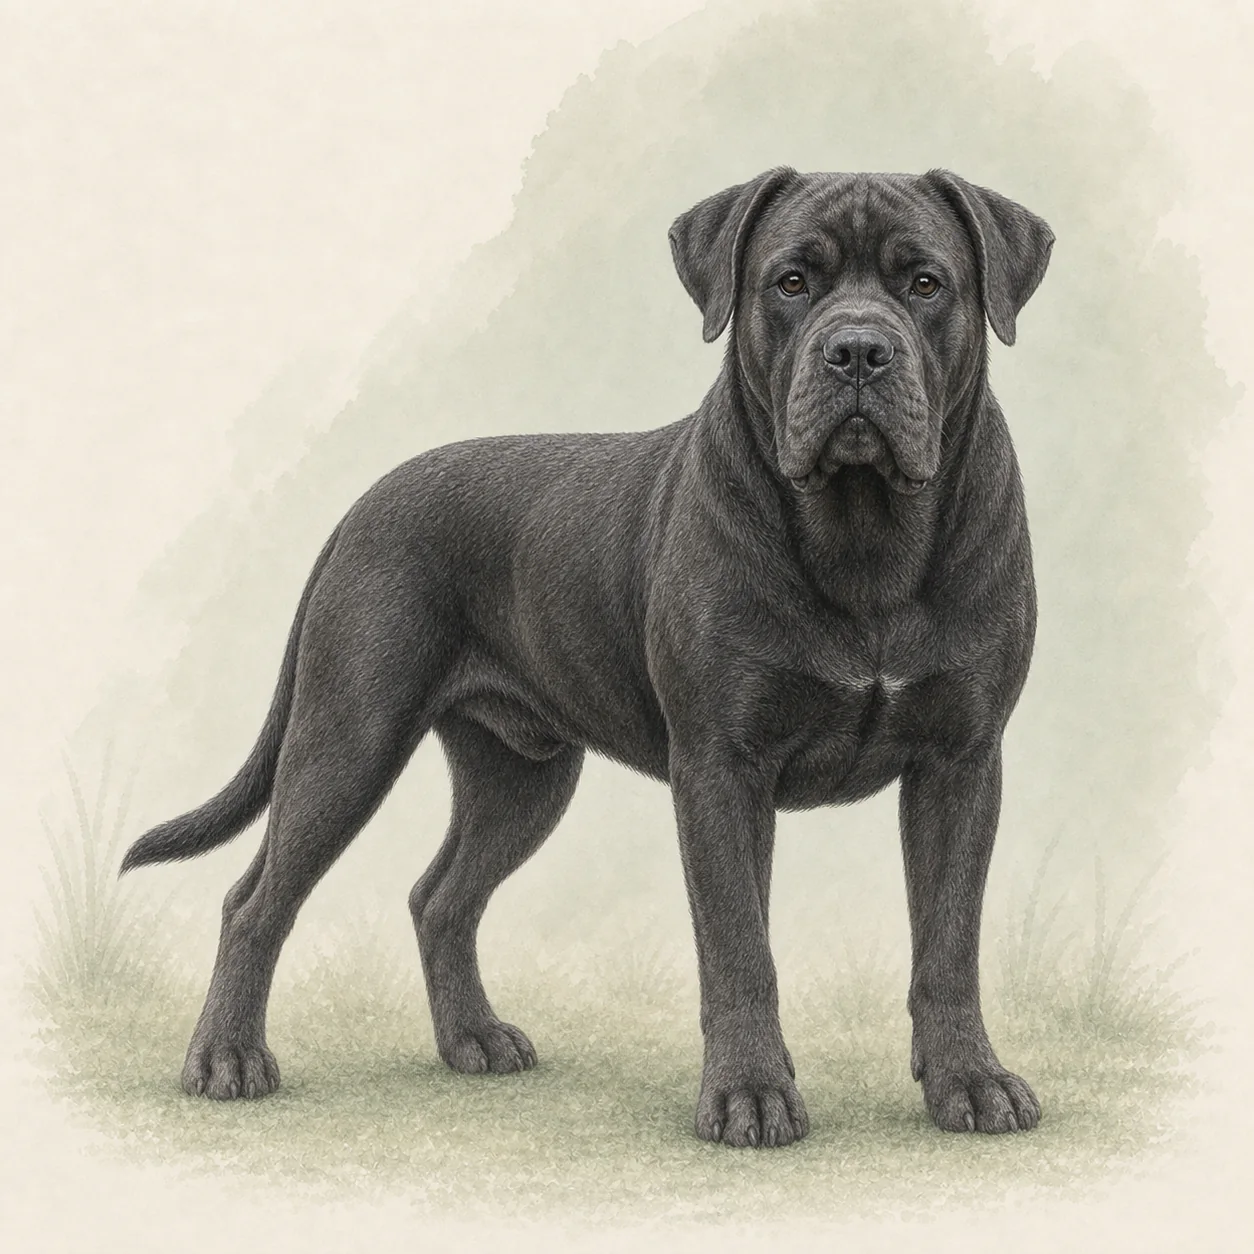
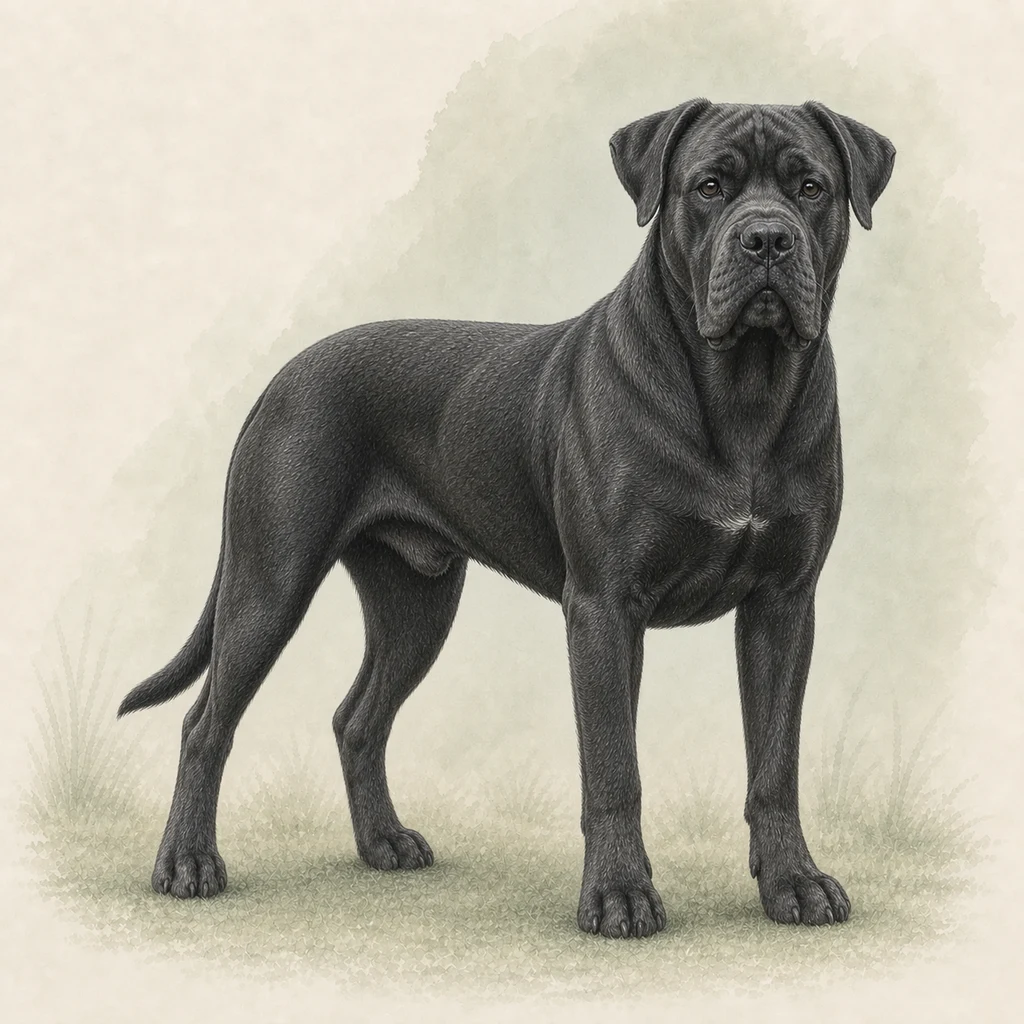
feat: refine giant breed catalog imagery

Changed region(s): [[0.0938, 0.0938, 0.875, 0.9375]]

diff --git a/src/content/breeds/master-catalog.ts b/src/content/breeds/master-catalog.ts
@@ -107,6 +107,7 @@ const aliasesKo: Partial<Record<string, string[]>> = {
   xoloitzcuintle: ["솔로이츠퀸틀리", "숄로이츠퀸틀리"],
   "labrador-retriever": ["라브라도 리트리버", "래브라도", "라브라도", "랩"],
   newfoundland: ["뉴펀랜드"],
+  mastiff: ["잉글리시 마스티프", "잉글리쉬 마스티프", "마스티브", "잉글리시 마스티브", "잉글리쉬 마스티브"],
   weimaraner: ["와이머라너", "바이마라너"],
   "bichon-frise": ["비숑", "비숑프리제"],
   maltese: ["몰티즈"],
@@ -114,6 +115,7 @@ const aliasesKo: Partial<Record<string, string[]>> = {
   "anatolian-shepherd-dog": ["아나톨리안 셰퍼드 독", "아나톨리안 셰퍼드 도그", "아나톨리아 셰퍼드", "아나톨리아 목양견"],
   bulgae: ["영주 불개", "영주불개"],
   "central-asian-shepherd-dog": ["알라바이", "알라바이견", "투르크멘 알라바이", "중앙아시아 셰퍼드", "중앙아시아 목양견"],
+  "caucasian-shepherd-dog": ["코카시안 오브차카", "코카서스 오브차카", "코카시안 오브카", "카프카스 오브차카", "오브차카"],
   "french-bulldog": ["프렌치 불독"],
   poodle: ["스탠더드 푸들", "미디엄 푸들", "미니어처 푸들", "토이 푸들", "토이푸들"],
   "pyrenean-mountain-dog": ["피레니언 마운틴 독", "피레니안 마운틴독"],
@@ -156,6 +158,8 @@ const aliasesEn: Partial<Record<string, string[]>> = {
   "continental-toy-spaniel": ["Papillon", "Phalene"],
   "italian-sighthound": ["Italian Greyhound"],
   "central-asian-shepherd-dog": ["Alabai", "Turkmen Alabay", "Central Asian Ovcharka"],
+  "caucasian-shepherd-dog": ["Caucasian Ovcharka", "Caucasian Mountain Dog", "Kavkazskaya Ovcharka"],
+  mastiff: ["English Mastiff"],
   bulgae: ["Yeongju Bulgae", "Bul-Gae"],
 };
 

diff --git a/src/content/breeds/master-catalog.test.ts b/src/content/breeds/master-catalog.test.ts
@@ -78,6 +78,10 @@ describe("master breed catalog", () => {
     expect(getMasterBreed("central-asian-shepherd-dog")?.aliasesEn).toContain("Alabai");
     expect(getMasterBreed("welsh-corgi-pembroke")?.aliasesKo).toContain("웰시코기");
     expect(getMasterBreed("american-cocker-spaniel")?.aliasesKo).toEqual(expect.arrayContaining(["아메리칸 코커 스파니엘", "아메리칸 코카 스파니엘"]));
+    expect(getMasterBreed("mastiff")?.aliasesKo).toEqual(expect.arrayContaining(["잉글리시 마스티프", "잉글리시 마스티브", "마스티브"]));
+    expect(getMasterBreed("mastiff")?.aliasesEn).toContain("English Mastiff");
+    expect(getMasterBreed("caucasian-shepherd-dog")?.aliasesKo).toEqual(expect.arrayContaining(["코카시안 오브차카", "코카서스 오브차카", "오브차카"]));
+    expect(getMasterBreed("caucasian-shepherd-dog")?.aliasesEn).toContain("Caucasian Ovcharka");
   });
 
   it("separates registry status from the evidence-based inclusion type", () => {

diff --git a/docs/project-status.md b/docs/project-status.md
@@ -3,9 +3,37 @@
 <!-- 2026-08-17: `/discover`의 고정 검색창은 열렸을 때 검색 바 자체만 표시하며,
 바깥 패널 표면과 비어 있는 오류 메시지 여백은 두지 않는다. 검색·자동완성 동작은 유지한다. -->
 
-> 마지막 갱신: 2026-08-31
+> 마지막 갱신: 2026-09-01
 > 역할: 제품·디자인·코드·콘텐츠·검증 상태를 빠르게 파악하기 위한 살아 있는 문서
 > 갱신 책임: 중요한 변경을 수행한 사람 또는 AI가 같은 변경 안에서 이 문서를 함께 수정한다.
+
+### 2026-09-01 초대형 마스티프 체급·대표 이미지 방향 통일과 오브차카 검색
+
+- 잉글리시 마스티프는 살집이 아니라 거대한 머리·발·골량·깊고 긴 흉곽으로 초대형 체급이 읽히도록 대표 이미지를 다시 제작했다. 네아폴리탄 마스티프·보어보엘·코카시안 셰퍼드 도그도 뒷몸은 화면 왼쪽, 머리는 화면 오른쪽에 두고 두 눈이 관람자를 향하는 공통 3/4 구도로 맞췄다.
+- 코카시안 셰퍼드 도그를 `코카시안 오브차카`·`코카서스 오브차카`·`코카시안 오브카`·`카프카스 오브차카`·`오브차카`와 영문 `Caucasian Ovcharka`·`Caucasian Mountain Dog`·`Kavkazskaya Ovcharka`로도 검색할 수 있게 별칭을 추가했다.
+- 대표 이미지 네 장은 견종 발견 카드와 상세 상단 첫 이미지에 함께 사용되며 상세 이야기 이미지는 유지했다.
+- ESLint·TypeScript 검사와 43개 파일·1,553개 테스트를 통과했고, 프로덕션 빌드는 399개 정적 경로를 정상 생성했다.
+
+### 2026-09-01 마스티프 검색명·잉글리시 마스티프와 보어보엘 체형 재교정
+
+- 기본 표기가 `마스티프`인 잉글리시 마스티프를 `잉글리시 마스티프`·`잉글리쉬 마스티프`·`마스티브`·`잉글리시 마스티브`·`잉글리쉬 마스티브`와 영문 `English Mastiff`로도 검색할 수 있게 별칭을 추가하고 회귀 검사로 고정했다.
+- 잉글리시 마스티프는 긴 직사각 윤곽·깊은 가슴·큰 골량과 머리를 든 위엄 있는 자세로, 보어보엘은 거의 정방형인 몸·단단히 올라간 복부·강한 후구와 민첩한 자세로 대표 이미지를 다시 제작했다. 두 견종 모두 비만처럼 보이는 처진 복부와 과도한 몸통 부피를 제거하고 밝은 포운과 짙은 적갈색으로도 구분했다.
+- 두 자산은 견종 발견 카드와 상세 상단 첫 이미지에 함께 사용되며 상세 이야기 이미지는 유지했다.
+- ESLint·TypeScript 검사와 43개 파일·1,553개 테스트를 통과했고, 프로덕션 빌드는 399개 정적 경로를 정상 생성했다.
+
+### 2026-09-01 대형·초대형견 발견 카드 체급 표현 2차 교정
+
+- 뉴펀들랜드·세인트버나드·잉글리시 마스티프·레온베르거·네아폴리탄 마스티프·코카시안 셰퍼드 도그의 공용 대표 이미지를 다시 제작했다. 이 자산은 견종 발견 카드와 상세 상단 첫 이미지에 함께 사용된다.
+- FCI 표준과 여러 성견 참고 사진을 대조해 뉴펀들랜드의 길고 균형 잡힌 골격, 세인트버나드의 높은 체고와 산악견 체형, 잉글리시 마스티프의 긴 몸과 큰 골량, 레온베르거의 긴 다리와 사자색 장모, 네아폴리탄 마스티프의 직사각 골격과 느슨한 피부, 코카시안 셰퍼드의 털 아래 드러나는 높은 다리와 산악 보호견 골격을 각각 분리했다.
+- 사람·소품 없이 성견 한 마리의 전신 점유율과 견종별 몸길이·체고·다리·가슴·머리 비율로 체급을 표현했다. 상세 이야기 이미지는 유지했으며 여섯 견종의 콘텐츠 상태도 원고와 이야기 이미지 재검수 전까지 `검수 필요`로 둔다.
+- ESLint·TypeScript 검사와 43개 파일·1,553개 테스트를 통과했고, 프로덕션 빌드는 399개 정적 경로를 정상 생성했다.
+
+### 2026-09-01 대형·초대형견 발견 카드 체급 표현 1차 교정
+
+- 그레이트 피레니즈·그레이트 덴·아이리시 울프하운드·티베탄 마스티프·보어보엘·아메리칸 아키타·도고 아르헨티노·캉갈 셰퍼드 도그·카네 코르소·자이언트 슈나우저의 공용 대표 이미지를 다시 제작했다. 이 자산은 견종 발견 카드와 상세 상단 첫 이미지에 함께 사용된다.
+- 사람이나 별도 비교 소품은 넣지 않고 기존의 아이보리 종이·연한 세이지 수채화 배경·성견 전신 구도를 유지했다. 프레임 점유율만 일괄 확대하지 않고 피레니즈·보어보엘의 폭과 골량, 그레이트 덴·울프하운드·캉갈의 체고와 긴 다리, 티베탄 마스티프·아메리칸 아키타의 서로 다른 장모 보호견·스피츠 골격, 도고·카네 코르소의 운동성 있는 몰로서 체형, 자이언트 슈나우저의 정방형 장신 체형을 각각 반영했다.
+- 이번 변경은 대표 이미지 10장의 시각 교정만 포함하며 상세 이야기 이미지는 유지했다. 역사→오늘→함께 살 때 원고와 이야기 이미지까지 재검수하기 전이므로 열 견종의 콘텐츠 상태는 계속 `검수 필요`로 둔다.
+- ESLint·TypeScript 검사와 43개 파일·1,553개 테스트를 통과했고, 프로덕션 빌드는 399개 정적 경로를 정상 생성했다.
 
 ### 2026-08-31 200종 콘텐츠 재검수 상태 분리
 
